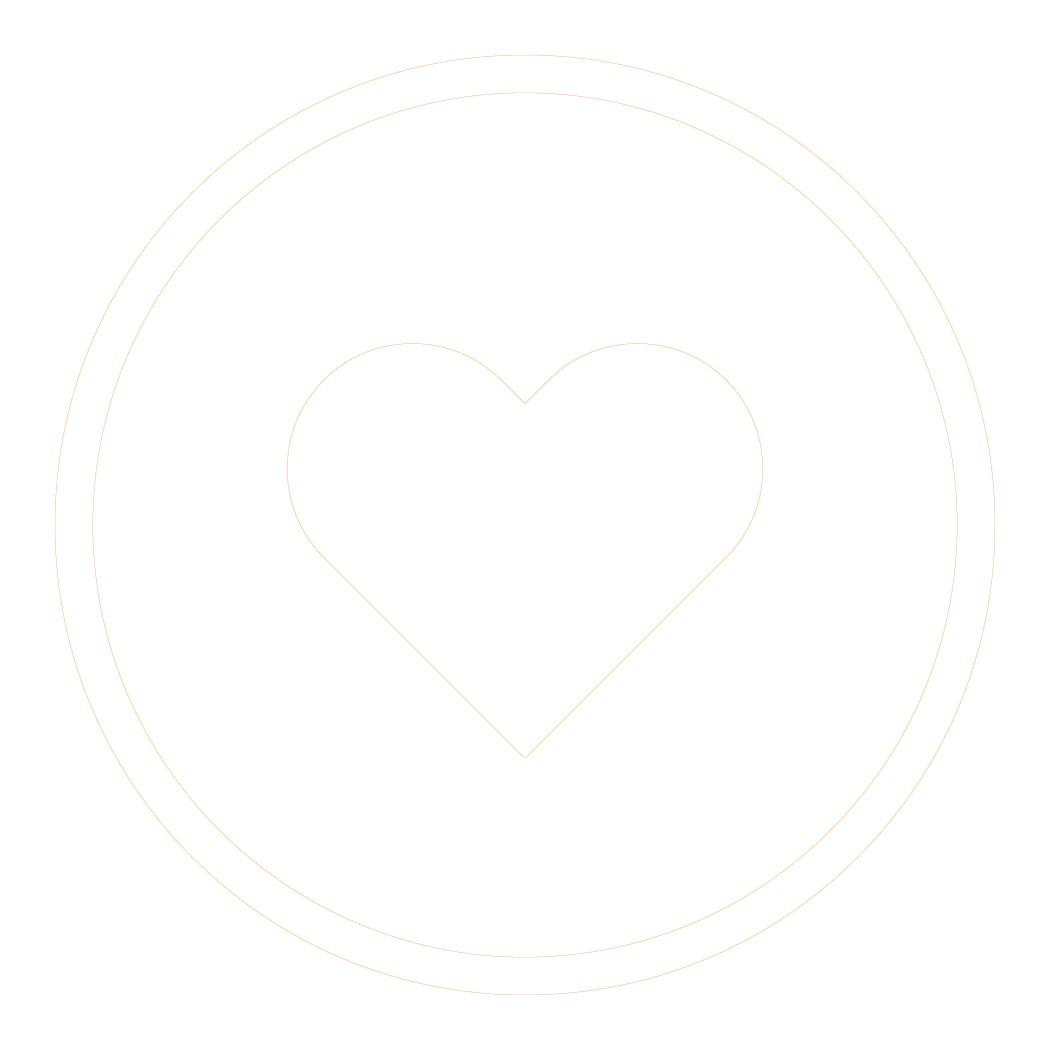
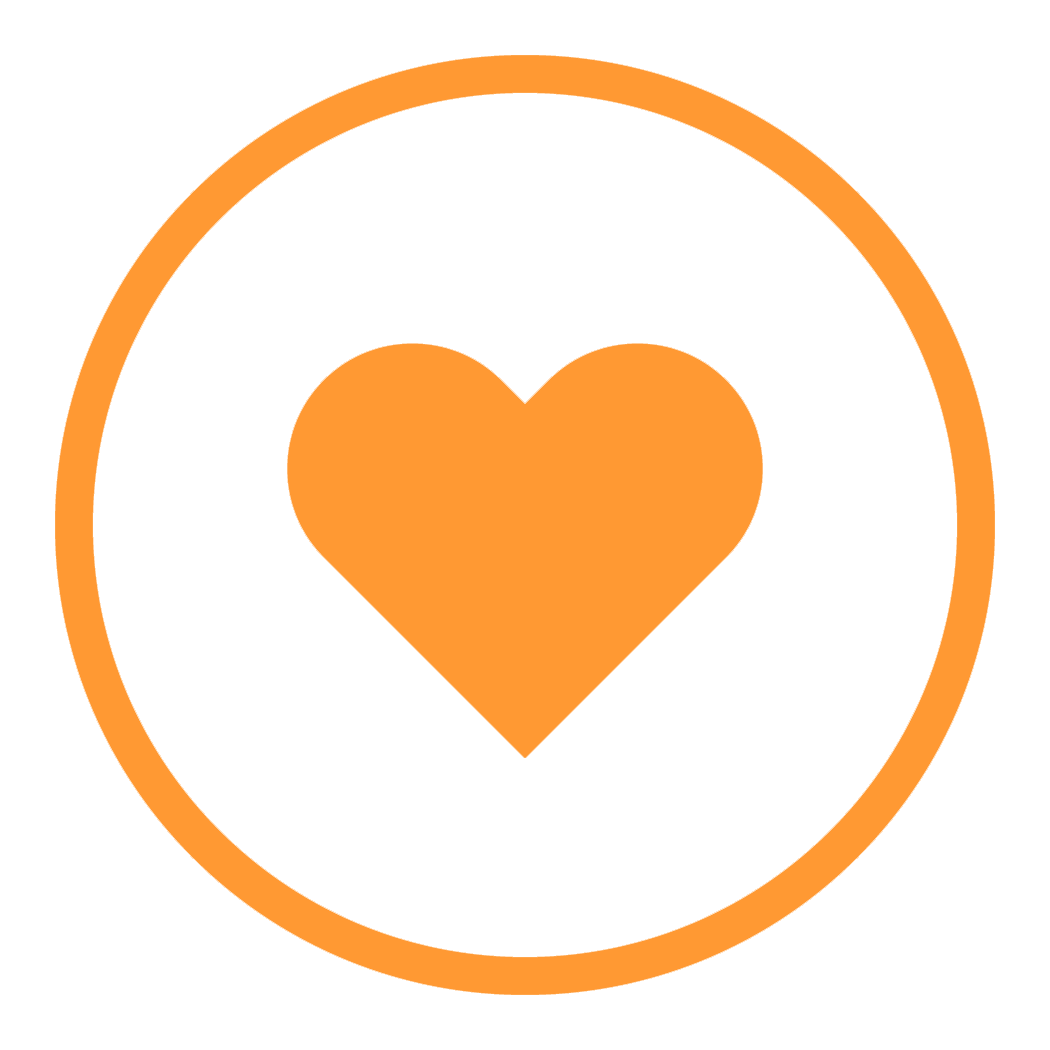
Changing the orange screens to white according Lydia's request.

Changed region(s): [[0.0305, 0.0305, 0.9448, 0.9448], [0.2743, 0.3048, 0.7314, 0.7314]]

diff --git a/scss/givdo.ui.scss b/scss/givdo.ui.scss
@@ -35,7 +35,7 @@
 
 .profile-picture, .player {
     border-radius: 100%;
-    border: solid 2px #fff;
+    border: solid 2px #ff9933;
     width: 100px;
     height: 100px;
     bottom: 15px;
@@ -81,17 +81,18 @@
 }
 
 .new-game, .welcome, .no-guest {
-    background-color: #ff9933 !important;
+    background-color: #fff !important;
 }
 .calm-item {
     background-color: none !important;
 }
 
 .title-box {
-    color: #fff;
+    color: #564256;
     text-align: center;
     font-size: 21px;
     line-height: 31px;
+    font-weight: 300;
 }
 
 /* sizes */
@@ -126,9 +127,9 @@
 
 
 .givdo-option {
-    color: #fff !important;
+    color: #ff9933 !important;
     margin: 10px !important;
-    border: solid 1px #fff !important;
+    border: solid 1px #ff9933 !important;
     margin: 11px !important;
     font-weight: 400;
 }
@@ -220,6 +221,7 @@
     text-align: right;
     color: #ff9933;
     border-bottom: dotted 1px #666;
+    padding-bottom: 80px;
 }
 
 
